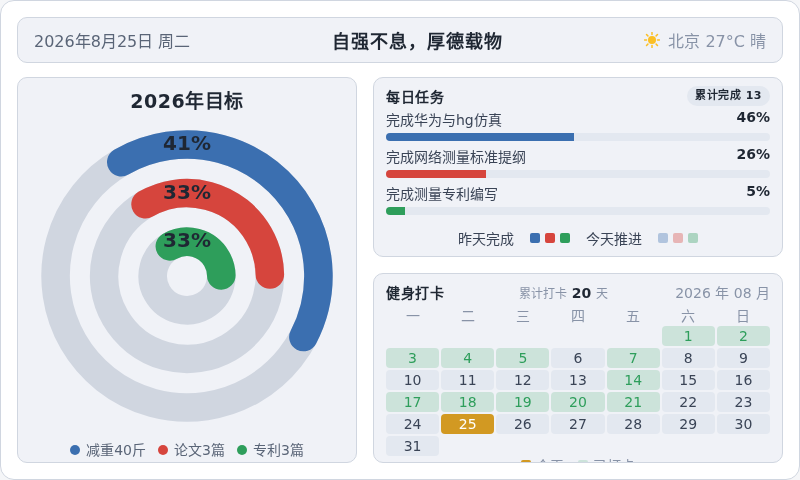
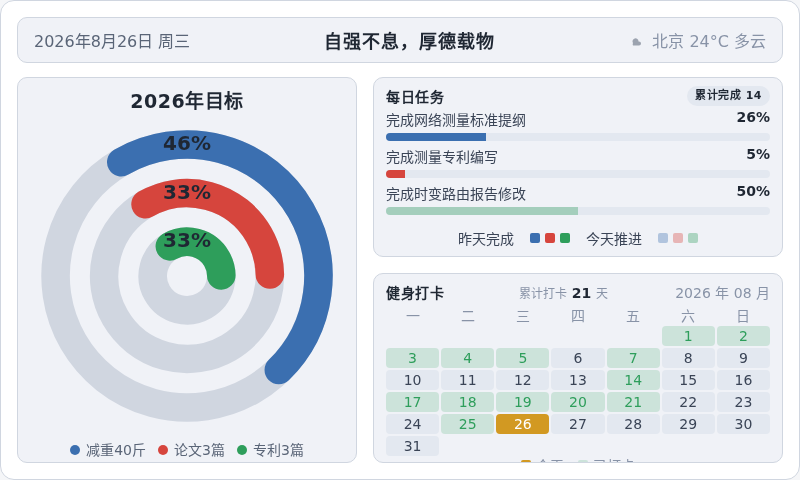
chore: 每日看板刷新 2026-08-26

diff --git a/output/dashboard.html b/output/dashboard.html
@@ -185,11 +185,11 @@
 <body>
   <div class="dash">
     <div class="topbar">
-      <div class="tb-date" id="tbDate">2026年8月25日 周二</div>
+      <div class="tb-date" id="tbDate">2026年8月26日 周三</div>
       <div class="tb-slogan">自强不息，厚德载物</div>
       <div class="tb-weather">
-        <svg width="16" height="16" viewBox="0 0 16 16" aria-hidden="true"><circle cx="8" cy="8" r="4" fill="#fbbf24"/><g stroke="#fbbf24" stroke-width="1.5" stroke-linecap="round"><line x1="8" y1="0.5" x2="8" y2="2.5"/><line x1="8" y1="13.5" x2="8" y2="15.5"/><line x1="0.5" y1="8" x2="2.5" y2="8"/><line x1="13.5" y1="8" x2="15.5" y2="8"/><line x1="2.5" y1="2.5" x2="3.9" y2="3.9"/><line x1="12.1" y1="12.1" x2="13.5" y2="13.5"/><line x1="13.5" y1="2.5" x2="12.1" y2="3.9"/><line x1="3.9" y1="12.1" x2="2.5" y2="13.5"/></g></svg>
-        <span>北京 27°C 晴</span>
+        <svg width="16" height="16" viewBox="0 0 16 16" aria-hidden="true"><path d="M5 11 a3 3 0 1 1 5.5 -1.5 h0.5 a2 2 0 1 1 0 4 H5 a2.5 2.5 0 0 1 0 -2.5z" fill="#9ca3af"/></svg>
+        <span>北京 24°C 多云</span>
       </div>
     </div>
     <div class="content">
@@ -200,9 +200,9 @@
           <svg viewBox="0 0 210 210" width="300" height="300" role="img" aria-label="三环进度仪表盘">
             <title>2026年目标三环进度</title>
             <g transform="rotate(-120 105 105)">
-              <circle cx="105" cy="105" r="92" fill="none" stroke="#d0d6e0" stroke-width="20"/><circle cx="105" cy="105" r="92" fill="none" stroke="#3b6fb0" stroke-width="20" stroke-linecap="round" stroke-dasharray="237.00 578.05"/><circle cx="105" cy="105" r="58" fill="none" stroke="#d0d6e0" stroke-width="20"/><circle cx="105" cy="105" r="58" fill="none" stroke="#d6453d" stroke-width="20" stroke-linecap="round" stroke-dasharray="120.26 364.42"/><circle cx="105" cy="105" r="24" fill="none" stroke="#d0d6e0" stroke-width="20"/><circle cx="105" cy="105" r="24" fill="none" stroke="#2e9e5b" stroke-width="20" stroke-linecap="round" stroke-dasharray="49.76 150.80"/>
+              <circle cx="105" cy="105" r="92" fill="none" stroke="#d0d6e0" stroke-width="20"/><circle cx="105" cy="105" r="92" fill="none" stroke="#3b6fb0" stroke-width="20" stroke-linecap="round" stroke-dasharray="265.90 578.05"/><circle cx="105" cy="105" r="58" fill="none" stroke="#d0d6e0" stroke-width="20"/><circle cx="105" cy="105" r="58" fill="none" stroke="#d6453d" stroke-width="20" stroke-linecap="round" stroke-dasharray="120.26 364.42"/><circle cx="105" cy="105" r="24" fill="none" stroke="#d0d6e0" stroke-width="20"/><circle cx="105" cy="105" r="24" fill="none" stroke="#2e9e5b" stroke-width="20" stroke-linecap="round" stroke-dasharray="49.76 150.80"/>
             </g>
-            <text x="105" y="13" text-anchor="middle" dominant-baseline="middle" fill="#1f2733" font-size="14" font-weight="700">41%</text><text x="105" y="47" text-anchor="middle" dominant-baseline="middle" fill="#1f2733" font-size="14" font-weight="700">33%</text><text x="105" y="81" text-anchor="middle" dominant-baseline="middle" fill="#1f2733" font-size="14" font-weight="700">33%</text>
+            <text x="105" y="13" text-anchor="middle" dominant-baseline="middle" fill="#1f2733" font-size="14" font-weight="700">46%</text><text x="105" y="47" text-anchor="middle" dominant-baseline="middle" fill="#1f2733" font-size="14" font-weight="700">33%</text><text x="105" y="81" text-anchor="middle" dominant-baseline="middle" fill="#1f2733" font-size="14" font-weight="700">33%</text>
           </svg>
         </div>
         <div class="legend"><div class="legend-row"><span class="dot" style="background:#3b6fb0"></span><span class="lg-name">减重40斤</span></div><div class="legend-row"><span class="dot" style="background:#d6453d"></span><span class="lg-name">论文3篇</span></div><div class="legend-row"><span class="dot" style="background:#2e9e5b"></span><span class="lg-name">专利3篇</span></div></div>
@@ -210,24 +210,24 @@
     </div>
     <div class="col-right">
       <div class="panel tasks-panel">
-        <div class="panel-title" style="color:#1f2733">每日任务<span class="task-done-count">累计完成  13</span></div>
+        <div class="panel-title" style="color:#1f2733">每日任务<span class="task-done-count">累计完成  14</span></div>
         <div class="task">
-          <div class="task-head"><span style="color:#3a4456">完成华为与hg仿真</span><span class="task-val" style="color:#1f2733">46%</span></div>
-          <div class="bar">
-            <div class="seg" style="width:49%;background:#3b6fb0"></div>
-            <div class="seg" style="width:0%;background:rgba(59,111,176,0.35)"></div>
-          </div>
-        </div><div class="task">
           <div class="task-head"><span style="color:#3a4456">完成网络测量标准提纲</span><span class="task-val" style="color:#1f2733">26%</span></div>
           <div class="bar">
-            <div class="seg" style="width:26%;background:#d6453d"></div>
-            <div class="seg" style="width:0%;background:rgba(214,69,61,0.35)"></div>
+            <div class="seg" style="width:26%;background:#3b6fb0"></div>
+            <div class="seg" style="width:0%;background:rgba(59,111,176,0.35)"></div>
           </div>
         </div><div class="task">
           <div class="task-head"><span style="color:#3a4456">完成测量专利编写</span><span class="task-val" style="color:#1f2733">5%</span></div>
           <div class="bar">
-            <div class="seg" style="width:5%;background:#2e9e5b"></div>
-            <div class="seg" style="width:0%;background:rgba(46,158,91,0.35)"></div>
+            <div class="seg" style="width:5%;background:#d6453d"></div>
+            <div class="seg" style="width:0%;background:rgba(214,69,61,0.35)"></div>
+          </div>
+        </div><div class="task">
+          <div class="task-head"><span style="color:#3a4456">完成时变路由报告修改</span><span class="task-val" style="color:#1f2733">50%</span></div>
+          <div class="bar">
+            <div class="seg" style="width:0%;background:#2e9e5b"></div>
+            <div class="seg" style="width:50%;background:rgba(46,158,91,0.35)"></div>
           </div>
         </div>
         <div class="task-legend">
@@ -242,13 +242,13 @@
           <span class="panel-title" style="margin:0;color:#1f2733">健身打卡</span>
           <span class="cal-stats">
             <span class="cal-stats-label">累计打卡</span>
-            <span class="cal-stats-num" style="color:#1f2733">20</span>
+            <span class="cal-stats-num" style="color:#1f2733">21</span>
             <span class="cal-stats-label">天</span>
           </span>
           <span class="cal-date">2026 年 08 月</span>
         </div>
         <div class="cal-grid wk"><span>一</span><span>二</span><span>三</span><span>四</span><span>五</span><span>六</span><span>日</span></div>
-        <div class="cal-grid"><span class="cell empty"></span><span class="cell empty"></span><span class="cell empty"></span><span class="cell empty"></span><span class="cell empty"></span><span class="cell done" style="background:rgba(46,158,91,0.18);color:#2e9e5b">1</span><span class="cell done" style="background:rgba(46,158,91,0.18);color:#2e9e5b">2</span><span class="cell done" style="background:rgba(46,158,91,0.18);color:#2e9e5b">3</span><span class="cell done" style="background:rgba(46,158,91,0.18);color:#2e9e5b">4</span><span class="cell done" style="background:rgba(46,158,91,0.18);color:#2e9e5b">5</span><span class="cell" style="background:#e3e8f0;color:#3a4456">6</span><span class="cell done" style="background:rgba(46,158,91,0.18);color:#2e9e5b">7</span><span class="cell" style="background:#e3e8f0;color:#3a4456">8</span><span class="cell" style="background:#e3e8f0;color:#3a4456">9</span><span class="cell" style="background:#e3e8f0;color:#3a4456">10</span><span class="cell" style="background:#e3e8f0;color:#3a4456">11</span><span class="cell" style="background:#e3e8f0;color:#3a4456">12</span><span class="cell" style="background:#e3e8f0;color:#3a4456">13</span><span class="cell done" style="background:rgba(46,158,91,0.18);color:#2e9e5b">14</span><span class="cell" style="background:#e3e8f0;color:#3a4456">15</span><span class="cell" style="background:#e3e8f0;color:#3a4456">16</span><span class="cell done" style="background:rgba(46,158,91,0.18);color:#2e9e5b">17</span><span class="cell done" style="background:rgba(46,158,91,0.18);color:#2e9e5b">18</span><span class="cell done" style="background:rgba(46,158,91,0.18);color:#2e9e5b">19</span><span class="cell done" style="background:rgba(46,158,91,0.18);color:#2e9e5b">20</span><span class="cell done" style="background:rgba(46,158,91,0.18);color:#2e9e5b">21</span><span class="cell" style="background:#e3e8f0;color:#3a4456">22</span><span class="cell" style="background:#e3e8f0;color:#3a4456">23</span><span class="cell" style="background:#e3e8f0;color:#3a4456">24</span><span class="cell today" style="background:#d29922;color:#ffffff">25</span><span class="cell" style="background:#e3e8f0;color:#3a4456">26</span><span class="cell" style="background:#e3e8f0;color:#3a4456">27</span><span class="cell" style="background:#e3e8f0;color:#3a4456">28</span><span class="cell" style="background:#e3e8f0;color:#3a4456">29</span><span class="cell" style="background:#e3e8f0;color:#3a4456">30</span><span class="cell" style="background:#e3e8f0;color:#3a4456">31</span></div>
+        <div class="cal-grid"><span class="cell empty"></span><span class="cell empty"></span><span class="cell empty"></span><span class="cell empty"></span><span class="cell empty"></span><span class="cell done" style="background:rgba(46,158,91,0.18);color:#2e9e5b">1</span><span class="cell done" style="background:rgba(46,158,91,0.18);color:#2e9e5b">2</span><span class="cell done" style="background:rgba(46,158,91,0.18);color:#2e9e5b">3</span><span class="cell done" style="background:rgba(46,158,91,0.18);color:#2e9e5b">4</span><span class="cell done" style="background:rgba(46,158,91,0.18);color:#2e9e5b">5</span><span class="cell" style="background:#e3e8f0;color:#3a4456">6</span><span class="cell done" style="background:rgba(46,158,91,0.18);color:#2e9e5b">7</span><span class="cell" style="background:#e3e8f0;color:#3a4456">8</span><span class="cell" style="background:#e3e8f0;color:#3a4456">9</span><span class="cell" style="background:#e3e8f0;color:#3a4456">10</span><span class="cell" style="background:#e3e8f0;color:#3a4456">11</span><span class="cell" style="background:#e3e8f0;color:#3a4456">12</span><span class="cell" style="background:#e3e8f0;color:#3a4456">13</span><span class="cell done" style="background:rgba(46,158,91,0.18);color:#2e9e5b">14</span><span class="cell" style="background:#e3e8f0;color:#3a4456">15</span><span class="cell" style="background:#e3e8f0;color:#3a4456">16</span><span class="cell done" style="background:rgba(46,158,91,0.18);color:#2e9e5b">17</span><span class="cell done" style="background:rgba(46,158,91,0.18);color:#2e9e5b">18</span><span class="cell done" style="background:rgba(46,158,91,0.18);color:#2e9e5b">19</span><span class="cell done" style="background:rgba(46,158,91,0.18);color:#2e9e5b">20</span><span class="cell done" style="background:rgba(46,158,91,0.18);color:#2e9e5b">21</span><span class="cell" style="background:#e3e8f0;color:#3a4456">22</span><span class="cell" style="background:#e3e8f0;color:#3a4456">23</span><span class="cell" style="background:#e3e8f0;color:#3a4456">24</span><span class="cell done" style="background:rgba(46,158,91,0.18);color:#2e9e5b">25</span><span class="cell today" style="background:#d29922;color:#ffffff">26</span><span class="cell" style="background:#e3e8f0;color:#3a4456">27</span><span class="cell" style="background:#e3e8f0;color:#3a4456">28</span><span class="cell" style="background:#e3e8f0;color:#3a4456">29</span><span class="cell" style="background:#e3e8f0;color:#3a4456">30</span><span class="cell" style="background:#e3e8f0;color:#3a4456">31</span></div>
         <div class="cal-legend">
           <span style="color:#8893a7"><i class="sw" style="background:#d29922"></i>今天</span>
           <span style="color:#8893a7"><i class="sw" style="background:rgba(46,158,91,0.18)"></i>已打卡</span>

diff --git a/output/tasks_view.html b/output/tasks_view.html
@@ -81,19 +81,19 @@
   <div class="header">
     <div>
       <div class="title">任务清单</div>
-      <div class="subtitle">共 25 个任务 · 已完成 13 · 进行中 12</div>
+      <div class="subtitle">共 25 个任务 · 已完成 14 · 进行中 11</div>
     </div>
     <div class="stats">
-      <div class="stat"><b>13</b><span>已完成</span></div>
-      <div class="stat"><b>12</b><span>进行中</span></div>
+      <div class="stat"><b>14</b><span>已完成</span></div>
+      <div class="stat"><b>11</b><span>进行中</span></div>
     </div>
   </div>
 
   <div class="filters" id="filters">
     <button class="filter-btn active" data-filter="all">全部<span class="cnt">25</span></button>
-    <button class="filter-btn" data-filter="done">已完成任务<span class="cnt">13</span></button>
-    <button class="filter-btn" data-filter="todo">未完成任务<span class="cnt">12</span></button>
-    <button class="filter-btn" data-filter="high">高优先级<span class="cnt">4</span></button>
+    <button class="filter-btn" data-filter="done">已完成任务<span class="cnt">14</span></button>
+    <button class="filter-btn" data-filter="todo">未完成任务<span class="cnt">11</span></button>
+    <button class="filter-btn" data-filter="high">高优先级<span class="cnt">3</span></button>
     <button class="filter-btn" data-filter="medium">中优先级<span class="cnt">5</span></button>
     <button class="filter-btn" data-filter="low">低优先级<span class="cnt">3</span></button>
   </div>
@@ -102,7 +102,7 @@
 </div>
 
 <script>
-const TASKS = [{"no": "1", "name": "完成进度看板项目", "date": "2026/08/01", "yesterday": 70, "today": 100, "priority": "high", "finished": true, "completed_date": "2026/08/01"}, {"no": "2", "name": "完成华为与hg仿真", "date": "2026/08/01", "yesterday": 49, "today": 46, "priority": "high", "finished": false, "completed_date": ""}, {"no": "3", "name": "完成网络测量标准提纲", "date": "2026/08/01", "yesterday": 26, "today": 26, "priority": "high", "finished": false, "completed_date": ""}, {"no": "4", "name": "完成AI综述论文编写", "date": "2026/08/03", "yesterday": 10, "today": 10, "priority": "medium", "finished": false, "completed_date": ""}, {"no": "5", "name": "完成仿真论文编写", "date": "2026/08/03", "yesterday": 5, "today": 5, "priority": "medium", "finished": false, "completed_date": ""}, {"no": "6", "name": "完成测量专利编写", "date": "2026/08/03", "yesterday": 5, "today": 5, "priority": "high", "finished": false, "completed_date": ""}, {"no": "7", "name": "完成调优专利编写", "date": "2026/08/03", "yesterday": 1, "today": 1, "priority": "low", "finished": false, "completed_date": ""}, {"no": "8", "name": "完成AI跟踪SIGCOMM", "date": "2026/08/03", "yesterday": 5, "today": 100, "priority": "medium", "finished": true, "completed_date": "2026/08/03"}, {"no": "9", "name": "完成电脑文件整理", "date": "2026/08/03", "yesterday": 30, "today": 35, "priority": "medium", "finished": false, "completed_date": ""}, {"no": "10", "name": "完成汽车保险购买", "date": "2026/08/03", "yesterday": 5, "today": 100, "priority": "high", "finished": true, "completed_date": "2026/08/03"}, {"no": "11", "name": "搭建个人知识库(workbuddy/llm-wiki/obsidian)", "date": "2026/08/03", "yesterday": 85, "today": 100, "priority": "low", "finished": true, "completed_date": "2026/08/03"}, {"no": "12", "name": "完成时变路由报告修改", "date": "2026/08/03", "yesterday": 0, "today": 50, "priority": "high", "finished": false, "completed_date": ""}, {"no": "13", "name": "预约医生线上复诊", "date": "2026/08/03", "yesterday": 0, "today": 100, "priority": "medium", "finished": true, "completed_date": "2026/08/03"}, {"no": "14", "name": "给博客绑定域名和公网ip", "date": "2026/08/03", "yesterday": 0, "today": 100, "priority": "low", "finished": true, "completed_date": "2026/08/03"}, {"no": "15", "name": "修改paypal密码", "date": "2026/08/04", "yesterday": 0, "today": 100, "priority": "medium", "finished": true, "completed_date": "2026/08/04"}, {"no": "16", "name": "完成bgp blockchain专利编写", "date": "2026/08/04", "yesterday": 0, "today": 0, "priority": "low", "finished": false, "completed_date": ""}, {"no": "17", "name": "完成以前的论文修改并投稿", "date": "2026/08/04", "yesterday": 0, "today": 0, "priority": "medium", "finished": false, "completed_date": ""}, {"no": "18", "name": "完成旧博客文章的导入", "date": "2026/08/04", "yesterday": 0, "today": 100, "priority": "low", "finished": true, "completed_date": "2026/08/04"}, {"no": "19", "name": "完成百度网盘数据迁移", "date": "2026/08/05", "yesterday": 0, "today": 100, "priority": "low", "finished": true, "completed_date": "2026/08/05"}, {"no": "20", "name": "完成2台旧电脑改造", "date": "2026/08/06", "yesterday": 0, "today": 50, "priority": "medium", "finished": false, "completed_date": ""}, {"no": "21", "name": "推进CCSA行标与华为开会", "date": "2026/08/14", "yesterday": 0, "today": 100, "priority": "high", "finished": true, "completed_date": "2026/08/14"}, {"no": "22", "name": "完成流程设计的业务单元梳理", "date": "2026/08/20", "yesterday": 0, "today": 100, "priority": "high", "finished": true, "completed_date": "2026/08/20"}, {"no": "23", "name": "研究AI做PPT", "date": "2026/08/21", "yesterday": 50, "today": 50, "priority": "low", "finished": false, "completed_date": ""}, {"no": "24", "name": "做个任务看板", "date": "2026/08/22", "yesterday": 100, "today": 100, "priority": "low", "finished": true, "completed_date": "2026/08/22"}, {"no": "25", "name": "用AI-Agent处理论文邮件订阅", "date": "2026/08/22", "yesterday": 100, "today": 100, "priority": "low", "finished": true, "completed_date": "2026/08/22"}];
+const TASKS = [{"no": "1", "name": "完成进度看板项目", "date": "2026/08/01", "yesterday": 70, "today": 100, "priority": "high", "finished": true, "completed_date": "2026/08/01"}, {"no": "2", "name": "完成华为与hg仿真", "date": "2026/08/01", "yesterday": 46, "today": 100, "priority": "high", "finished": true, "completed_date": "2026/08/25"}, {"no": "3", "name": "完成网络测量标准提纲", "date": "2026/08/01", "yesterday": 26, "today": 26, "priority": "high", "finished": false, "completed_date": ""}, {"no": "4", "name": "完成AI综述论文编写", "date": "2026/08/03", "yesterday": 10, "today": 10, "priority": "medium", "finished": false, "completed_date": ""}, {"no": "5", "name": "完成仿真论文编写", "date": "2026/08/03", "yesterday": 5, "today": 5, "priority": "medium", "finished": false, "completed_date": ""}, {"no": "6", "name": "完成测量专利编写", "date": "2026/08/03", "yesterday": 5, "today": 5, "priority": "high", "finished": false, "completed_date": ""}, {"no": "7", "name": "完成调优专利编写", "date": "2026/08/03", "yesterday": 1, "today": 1, "priority": "low", "finished": false, "completed_date": ""}, {"no": "8", "name": "完成AI跟踪SIGCOMM", "date": "2026/08/03", "yesterday": 5, "today": 100, "priority": "medium", "finished": true, "completed_date": "2026/08/03"}, {"no": "9", "name": "完成电脑文件整理", "date": "2026/08/03", "yesterday": 30, "today": 35, "priority": "medium", "finished": false, "completed_date": ""}, {"no": "10", "name": "完成汽车保险购买", "date": "2026/08/03", "yesterday": 5, "today": 100, "priority": "high", "finished": true, "completed_date": "2026/08/03"}, {"no": "11", "name": "搭建个人知识库(workbuddy/llm-wiki/obsidian)", "date": "2026/08/03", "yesterday": 85, "today": 100, "priority": "low", "finished": true, "completed_date": "2026/08/03"}, {"no": "12", "name": "完成时变路由报告修改", "date": "2026/08/03", "yesterday": 0, "today": 50, "priority": "high", "finished": false, "completed_date": ""}, {"no": "13", "name": "预约医生线上复诊", "date": "2026/08/03", "yesterday": 0, "today": 100, "priority": "medium", "finished": true, "completed_date": "2026/08/03"}, {"no": "14", "name": "给博客绑定域名和公网ip", "date": "2026/08/03", "yesterday": 0, "today": 100, "priority": "low", "finished": true, "completed_date": "2026/08/03"}, {"no": "15", "name": "修改paypal密码", "date": "2026/08/04", "yesterday": 0, "today": 100, "priority": "medium", "finished": true, "completed_date": "2026/08/04"}, {"no": "16", "name": "完成bgp blockchain专利编写", "date": "2026/08/04", "yesterday": 0, "today": 0, "priority": "low", "finished": false, "completed_date": ""}, {"no": "17", "name": "完成以前的论文修改并投稿", "date": "2026/08/04", "yesterday": 0, "today": 0, "priority": "medium", "finished": false, "completed_date": ""}, {"no": "18", "name": "完成旧博客文章的导入", "date": "2026/08/04", "yesterday": 0, "today": 100, "priority": "low", "finished": true, "completed_date": "2026/08/04"}, {"no": "19", "name": "完成百度网盘数据迁移", "date": "2026/08/05", "yesterday": 0, "today": 100, "priority": "low", "finished": true, "completed_date": "2026/08/05"}, {"no": "20", "name": "完成2台旧电脑改造", "date": "2026/08/06", "yesterday": 0, "today": 50, "priority": "medium", "finished": false, "completed_date": ""}, {"no": "21", "name": "推进CCSA行标与华为开会", "date": "2026/08/14", "yesterday": 0, "today": 100, "priority": "high", "finished": true, "completed_date": "2026/08/14"}, {"no": "22", "name": "完成流程设计的业务单元梳理", "date": "2026/08/20", "yesterday": 0, "today": 100, "priority": "high", "finished": true, "completed_date": "2026/08/20"}, {"no": "23", "name": "研究AI做PPT", "date": "2026/08/21", "yesterday": 50, "today": 50, "priority": "low", "finished": false, "completed_date": ""}, {"no": "24", "name": "做个任务看板", "date": "2026/08/22", "yesterday": 100, "today": 100, "priority": "low", "finished": true, "completed_date": "2026/08/22"}, {"no": "25", "name": "用AI-Agent处理论文邮件订阅", "date": "2026/08/22", "yesterday": 100, "today": 100, "priority": "low", "finished": true, "completed_date": "2026/08/22"}];
 
 const PRIORITY = {
   high: { label: '高优先级', color: '#d6453d', bg: '#fdeceb' },
